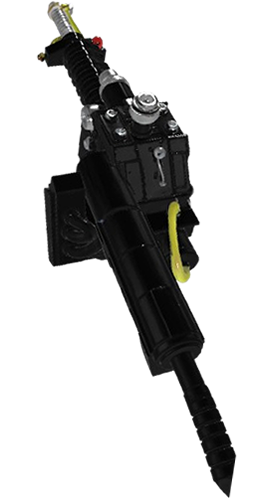
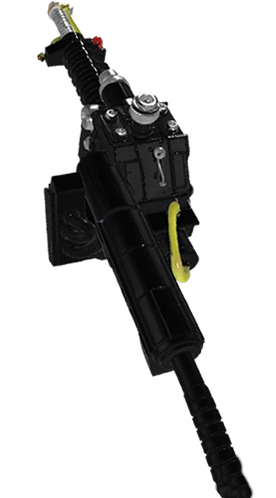
feat(fx): Implementa feixe de prótons grosso e preciso via cilindro

Changed region(s): [[0.7826, 0.9036, 0.9275, 1.0]]

diff --git a/main.js b/main.js
@@ -397,6 +397,25 @@ AFRAME.registerComponent('game-manager', {
         this.isCapturing = true;
         this.protonBeamSound.play();
         this.protonBeamEntity.setAttribute('visible', true); // Mostra o feixe de prótons
+
+        // Define os pontos de início e fim do feixe em coordenadas relativas à câmera
+        const startPoint = new THREE.Vector3(0.15, -0.4, -0.5); // Ponta da pistola
+        const endPoint = new THREE.Vector3(0, 0, -10); // Centro da tela, 10m de distância
+
+        // Calcula o vetor do feixe, seu comprimento e ponto médio
+        const beamVector = new THREE.Vector3().subVectors(endPoint, startPoint);
+        const beamLength = beamVector.length();
+        const beamMidpoint = new THREE.Vector3().addVectors(startPoint, endPoint).divideScalar(2);
+
+        // Define a altura e posição do cilindro
+        this.protonBeamEntity.setAttribute('geometry', { height: beamLength });
+        this.protonBeamEntity.object3D.position.copy(beamMidpoint);
+
+        // Calcula a rotação para alinhar o cilindro (que por padrão aponta para cima) com o vetor do feixe
+        const cylinderUp = new THREE.Vector3(0, 1, 0); // Eixo Y padrão do cilindro
+        const quaternion = new THREE.Quaternion().setFromUnitVectors(cylinderUp, beamVector.normalize());
+        this.protonBeamEntity.object3D.quaternion.copy(quaternion);
+
         this.protonPackProgressBar.style.display = 'block';
         let startTime = Date.now();
 

diff --git a/index.html b/index.html
@@ -36,9 +36,11 @@
         <a-light type="ambient" color="#FFF" intensity="0.7"></a-light>
         <a-light type="directional" color="#FFF" intensity="0.8" position="-1 2 1"></a-light>
         <a-camera fov="80">
-            <!-- Proton Beam Entity (child of camera) - de volta ao line component -->
+            <!-- Proton Beam Entity (child of camera) - cilindro controlado por JS -->
             <a-entity id="proton-beam-entity" visible="false"
-                line="start: 0.15 -0.4 -0.5; end: 0 0 -10; color: #00FFFF; opacity: 0.9;"></a-entity>
+                geometry="primitive: cylinder; radius: 0.03;"
+                material="color: #00FFFF; opacity: 0.8;">
+            </a-entity>
         </a-camera>
         <a-entity id="reticle" visible="false"
             geometry="primitive: ring; radius-inner: 0.04; radius-outer: 0.06;"
